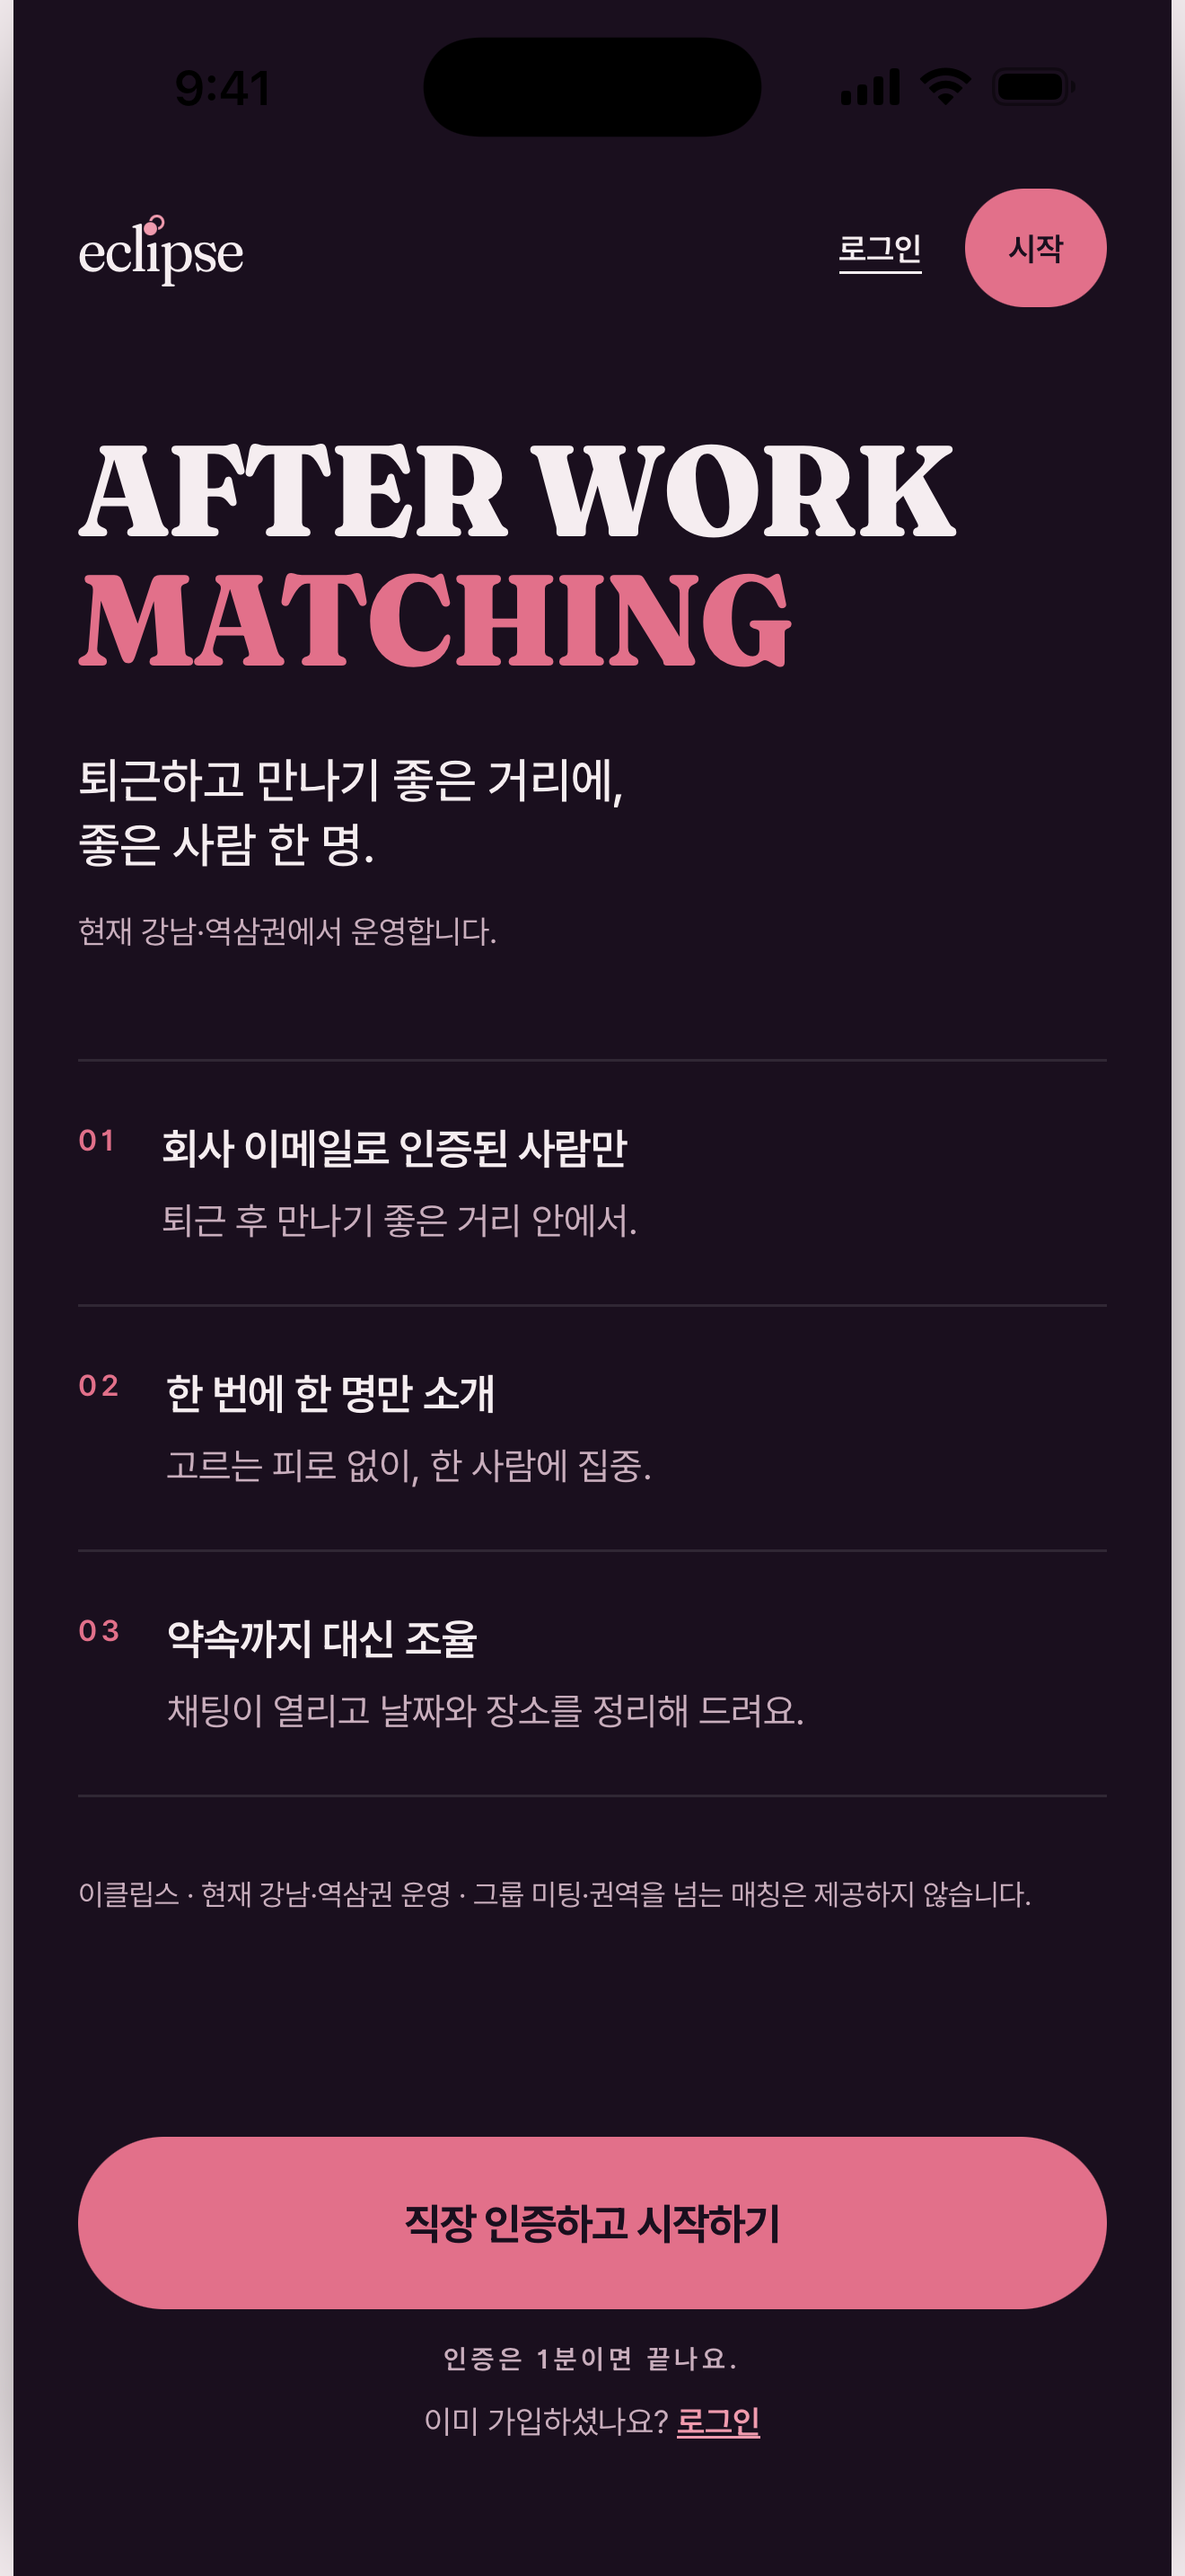
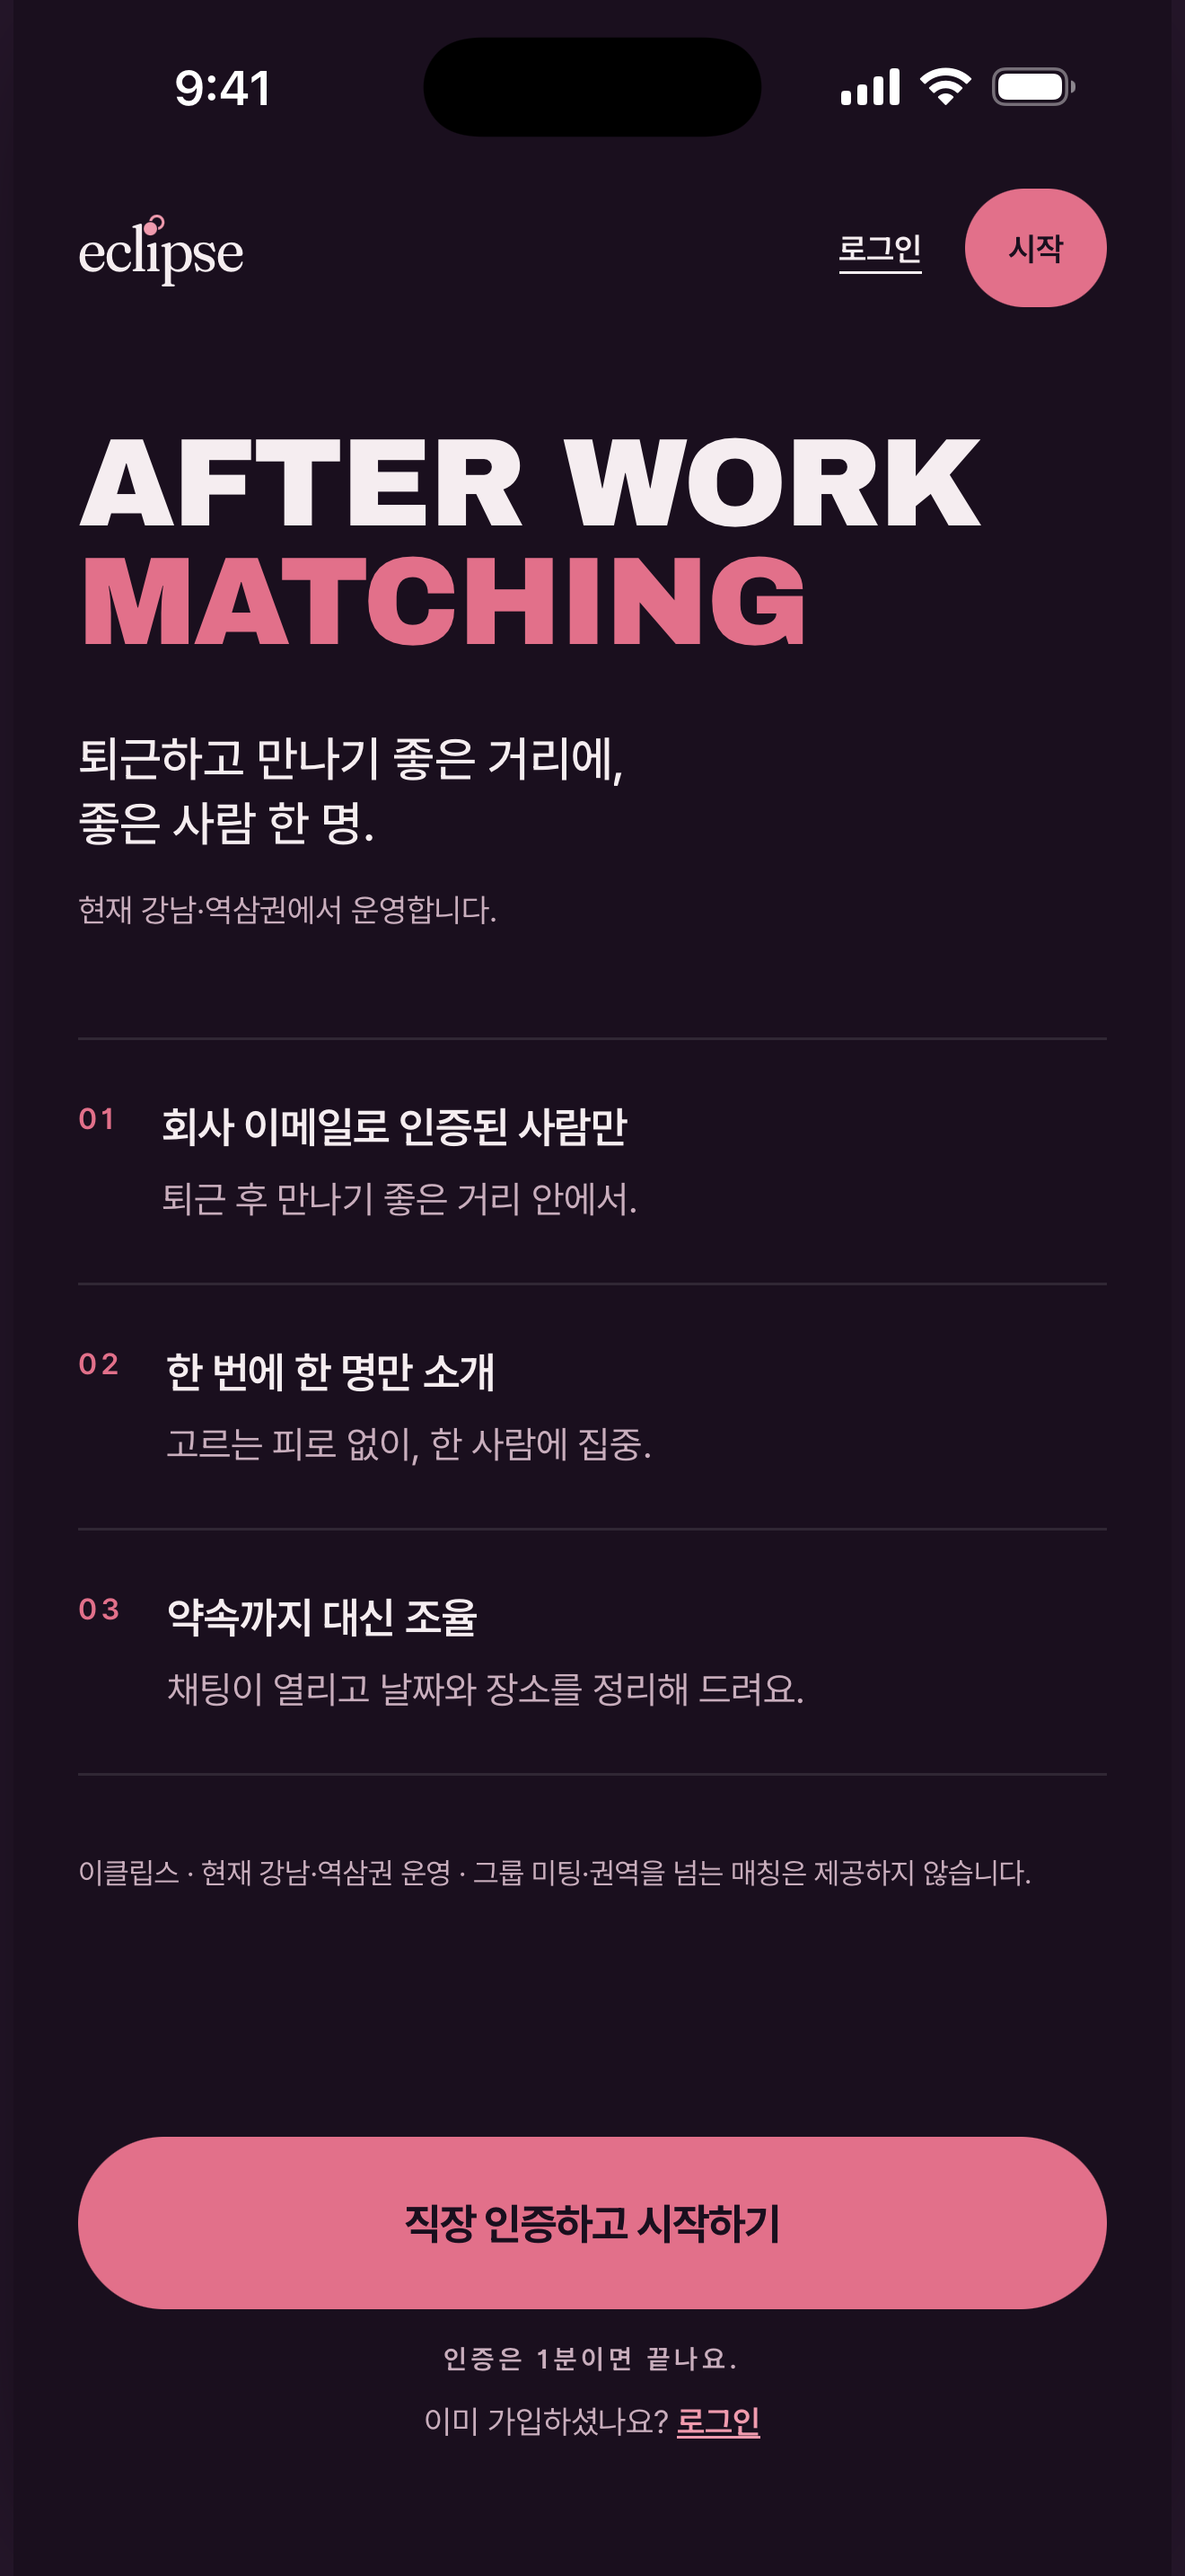
fix: 랜딩 히어로만 고딕으로 되돌린다 (Archivo Black) (#33)
워드마크를 Fraunces 로 옮길 때 히어로까지 같이 데려갔다. 한 서체로 통일하면
요청이 줄고 한 손에서 나온 느낌도 나서였는데, **히어로는 이름과 하는 일이
다르다** — 이름은 읽히면 되고 히어로는 때려야 한다. 세리프 900 은 우아해지면서
그 타격을 잃었다.

  · 워드마크(브랜드네임) = Fraunces  — 그대로
  · 랜딩 히어로            = Archivo Black — 되돌림

라틴 서체 둘을 받는 비용(요청 1개)을 치른다. 대신 Fraunces 에서 wght 축 요청을
뺐다(더 굵게 쓸 곳이 없어졌다).

── 크기 ──
그냥 되돌리면 세 줄로 깨진다. Archivo Black 은 폭이 넓어서 "AFTER WORK" 가
48px 에서 356px 이고, 375px 화면(SE·mini)의 본문 폭 327px 을 넘는다.
"AFTER / WORK / MATCHING" 은 읽는 리듬이 깨지고, 히어로가 한 줄 늘어나면서
소개 항목 03 이 CTA 뒤로 밀려 잘렸다.

clamp(2.45rem, 11.4vw, 2.9rem) 으로 잡았다. 최소값이 좁은 화면에서 한 줄을
지키고, 최대값은 데스크톱에서 프레임(430px)을 넘지 않게 한다 — vw 는 프레임이
아니라 뷰포트를 보기 때문이다. 375·574px 두 폭에서 2줄·넘침 없음을 실측했다.

diff --git a/src/styles.css b/src/styles.css
@@ -46,6 +46,18 @@
   --font-wordmark: Fraunces, ui-serif, Georgia, serif;
 
   /*
+    랜딩 히어로 전용. **워드마크와 다른 서체를 쓴다.**
+
+    한때 Fraunces 900 으로 통일했었다. 한 파일로 두 역할을 덮으니 요청이 줄고
+    한 손에서 나온 느낌도 났다. 그런데 히어로는 브랜드네임과 하는 일이 다르다 —
+    이름은 읽히면 되고, 히어로는 **때려야** 한다. 세리프 900 은 우아하지만 그
+    타격이 없었다.
+
+    그래서 여기만 되돌린다. 라틴 서체 둘을 받는 비용(요청 1개)을 치른다.
+  */
+  --font-hero: "Archivo Black", ui-sans-serif, sans-serif;
+
+  /*
    * 타입 스케일 — Tailwind 기본 스텝(xs .75 / sm .875 / base 1 / lg 1.125 …)은
    * 그대로 쓰고, 그 아래 마이크로 단계만 추가한다. 기존 코드에 0.6~0.7rem 사이
    * 임의값이 6종(0.6·0.62·0.65·0.66·0.68·0.7)이나 흩어져 있었는데 서로 구분이
@@ -566,19 +578,20 @@
 }
 
 /*
-  랜딩 히어로 — 같은 서체의 가장 굵은 쪽. 워드마크와 한 손에서 나온 것으로
-  읽히면서도, 900 과 400 의 차이가 커서 둘이 경쟁하지 않는다.
-  opsz 는 여기서는 큰 값(144)이 맞다 — 실제로 크게 쓰는 자리다.
+  랜딩 히어로 — Archivo Black. 기하 그로테스크의 단단한 대문자다.
+
+  워드마크(Fraunces 세리프)와 서체가 다르다. 의도한 대비다 — 이름은 부드럽게
+  읽히고, 히어로는 크게 때린다. 둘이 같은 서체였을 때는 히어로가 우아해지면서
+  힘을 잃었다.
+
+  단일 웨이트(400)라 굵기를 줄 수 없고 한글 글리프도 없다. 이 클래스는 **라틴
+  대문자만 들어가는 자리**에서만 쓴다.
 */
 @utility display-wordmark {
-  font-family: var(--font-wordmark);
-  font-weight: 900;
-  font-variation-settings:
-    "opsz" 144,
-    "SOFT" 60,
-    "WONK" 1;
+  font-family: var(--font-hero);
+  font-weight: 400;
   font-synthesis-weight: none;
-  letter-spacing: -0.005em;
+  letter-spacing: -0.02em;
   line-height: 0.95;
 }
 

diff --git a/src/routes/__root.tsx b/src/routes/__root.tsx
@@ -110,19 +110,18 @@ export const Route = createRootRouteWithContext<{ queryClient: QueryClient }>()(
         href: "https://cdn.jsdelivr.net/gh/orioncactus/pretendard@v1.3.9/dist/web/variable/pretendardvariable-dynamic-subset.min.css",
       },
       /*
-        Fraunces 하나만 받는다 — 워드마크(400)와 랜딩 히어로(900)가 같은 서체다.
+        라틴 서체 **둘**을 받는다. 역할이 다르다.
 
-        예전에는 Archivo Black 이었다. 기하 그로테스크라 "딱딱하다" 는 지적이
-        정확했고, 단일 웨이트(400)라 히어로에 굵기를 줄 수도 없었다. Fraunces 는
-        가변 서체라 한 파일로 두 역할을 덮는다 — 요청 수가 늘지 않는다.
-
-        SOFT·WONK 축이 이 서체를 고른 이유다. 후리를 둥글게(SOFT) 하고 몇 글자를
-        살짝 기울이면(WONK) 세리프인데도 격식이 빠진다. 축 값은 styles.css 에서
-        정하는데, 폰트 URL 에 축 범위를 함께 요청해야 그 값이 실제로 적용된다.
+        · Fraunces — 브랜드네임(워드마크). SOFT·WONK 축으로 세리프의 격식을 덜어
+          "딱딱하다" 는 지적을 해소한 자리다. 축 값은 styles.css 에서 정하지만,
+          폰트 URL 에 축 범위를 함께 요청해야 실제로 적용된다.
+        · Archivo Black — 랜딩 히어로. 한때 Fraunces 900 으로 통일했다가 되돌렸다.
+          히어로는 이름과 달리 **때려야** 하는 자리고, 세리프 900 은 우아해지면서
+          그 타격을 잃었다. wght 축을 더 안 받으므로 Fraunces 쪽 요청도 가벼워졌다.
       */
       {
         rel: "stylesheet",
-        href: "https://fonts.googleapis.com/css2?family=Fraunces:opsz,wght,SOFT,WONK@9..144,400..900,0..100,0..1&display=swap",
+        href: "https://fonts.googleapis.com/css2?family=Archivo+Black&family=Fraunces:opsz,SOFT,WONK@9..144,0..100,0..1&display=swap",
       },
       /*
         SVG 를 먼저 둔다 — 지원 브라우저는 이걸 쓰고 어느 크기에서도 선명하다.

diff --git a/src/routes/index.tsx b/src/routes/index.tsx
@@ -76,7 +76,17 @@ function Landing() {
 
       <main className="min-h-0 flex-1 overflow-y-auto overscroll-contain px-6">
         <section className="pt-8 pb-10">
-          <h1 className="display-wordmark text-5xl uppercase">
+          {/*
+            크기를 vw 로 잡는다. Archivo Black 은 폭이 넓어서 48px 로 두면
+            "AFTER WORK" 가 356px 이 되고 375px 화면(SE·mini)의 본문 폭
+            327px 을 넘겨 세 줄로 쪼개진다 — "AFTER / WORK / MATCHING" 은
+            읽는 리듬이 깨진다.
+
+            아래·위 한계가 둘 다 필요하다. 최소값은 좁은 화면에서 한 줄을
+            지키고, 최대값은 데스크톱에서 프레임(430px)을 넘지 않게 한다 —
+            vw 는 프레임이 아니라 뷰포트를 보기 때문이다.
+          */}
+          <h1 className="display-wordmark text-[clamp(2.45rem,11.4vw,2.9rem)] uppercase">
             After Work
             <br />
             <span className="text-primary">Matching</span>
